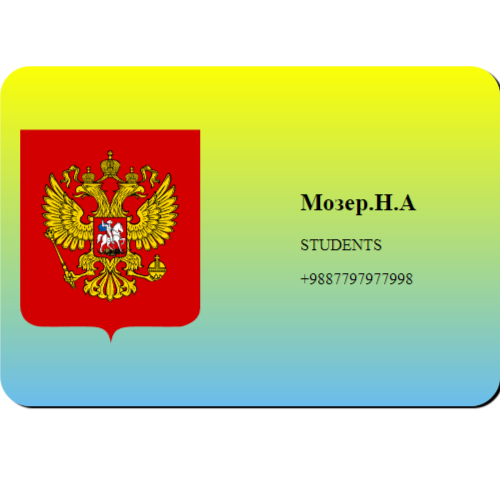
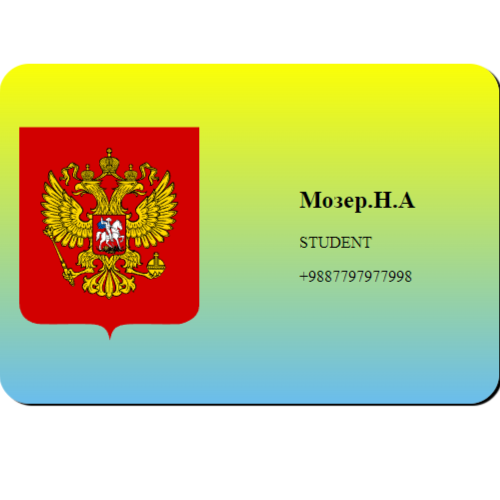
fixed

diff --git a/Creation_of_Development/index.html b/Creation_of_Development/index.html
@@ -182,7 +182,7 @@
                 <!-- Музыка (Почему-то)-->
                 <audio src="audio/ambient.mp3" loop autoplay> Ваш браузер не пожжерживает тег audio! </audio>
                     <!-- громкость минимум -->
-                    <script> var audio=document.querySelector("audio"); audio.volume=0.01;</script>
+                    <script> var audio=document.querySelector("audio"); audio.volume=0.05;</script>
             </div>
         </footer>
     

diff --git a/Creation_of_Development/sites/business_card_1/index.html b/Creation_of_Development/sites/business_card_1/index.html
@@ -12,7 +12,7 @@
             <img class="buisness-card-logo" width="180px" height="300" src="to.svg">
             <div class="buisness-card-text">
                 <h2 class="background-card-title">Мозер.Н.А</h2>
-                <p class="buisness-card-description">STUDENTS</p>
+                <p class="buisness-card-description">STUDENT</p>
                 <p class="buisness-card-contact">+9887797977998</p>
             </div>
         </div>
